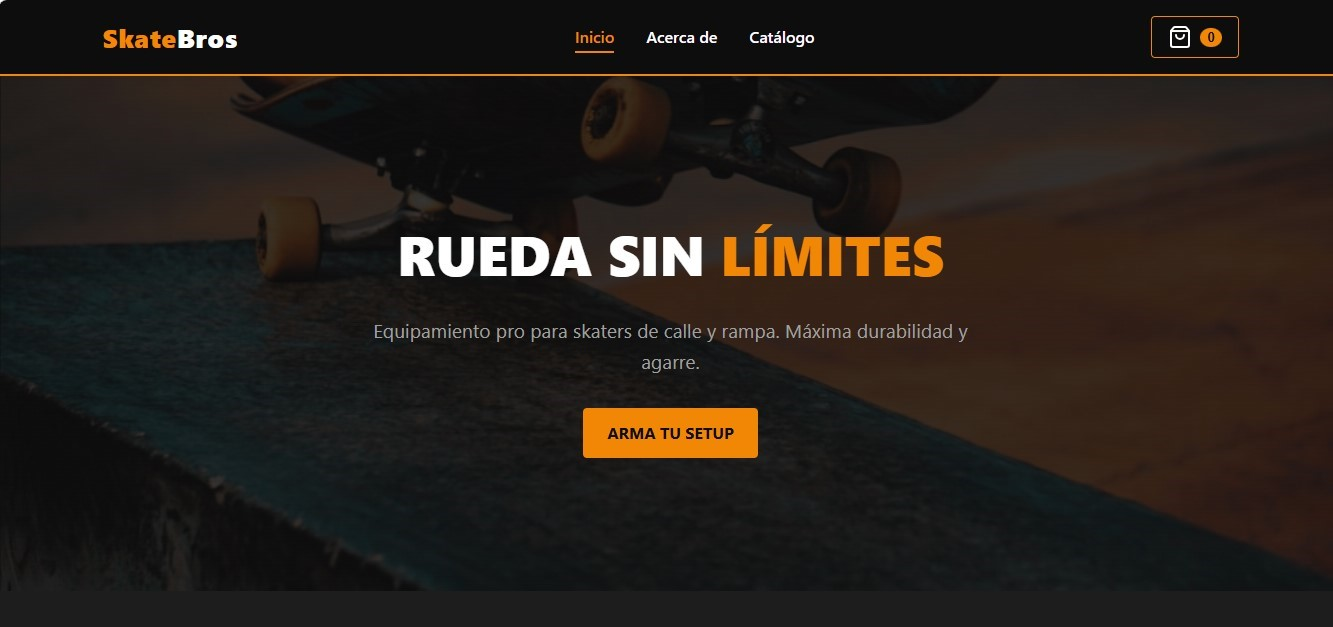
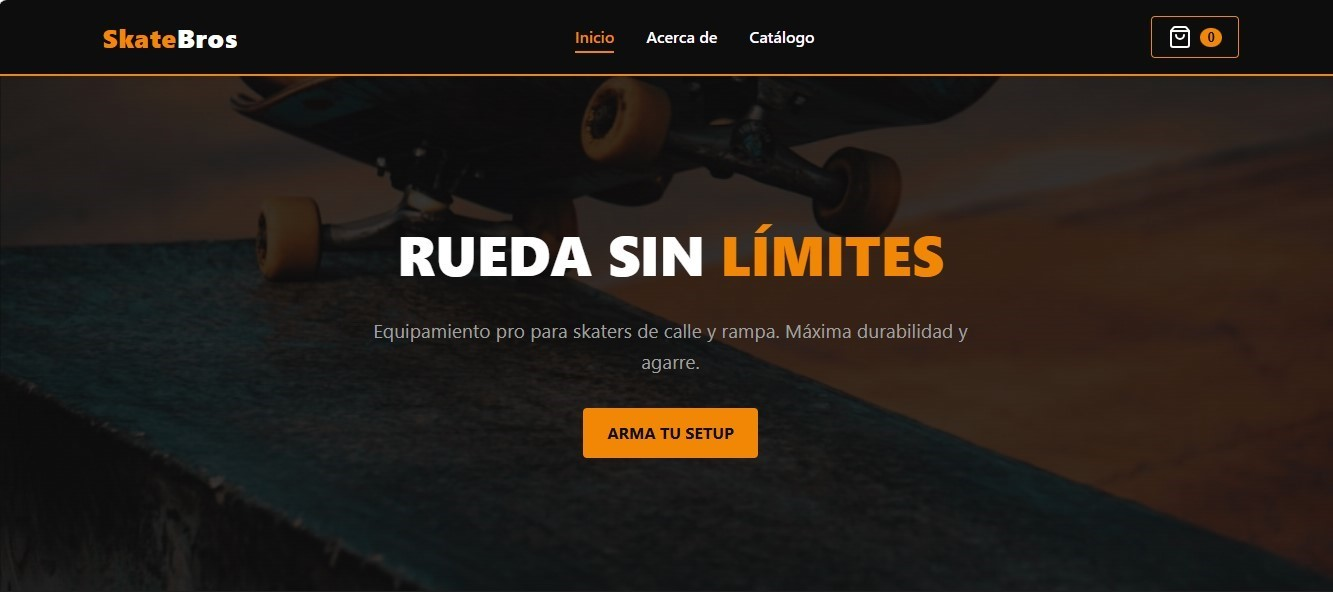
Ajustes en la responsividad

diff --git a/assets/css/style.css b/assets/css/style.css
@@ -31,7 +31,6 @@ body {
     line-height: 1.6;
 }
 
-/* FONDOS AMBIENTALES */
 .ambient-light-1, .ambient-light-2 {
     position: fixed;
     border-radius: 50%;
@@ -56,7 +55,6 @@ body {
     right: -100px;
 }
 
-/* NAVEGACIÓN CORREGIDA */
 .glass-nav {
     position: relative; 
     width: 90%;
@@ -98,7 +96,6 @@ body {
     color: var(--rose-gold);
 }
 
-/* CONTENEDOR PRINCIPAL */
 .main-wrapper {
     width: 100%;
     max-width: 1100px;
@@ -479,8 +476,14 @@ body {
         font-size: 2rem;
     }
 
-    .bio {
-        text-align: left;
+    .bio, 
+    .project-info p {
+        text-align: justify;
+        text-justify: inter-word;
+        hyphens: auto;
+        -webkit-hyphens: auto;
+        word-break: normal;
+        line-height: 1.6;
     }
 
     .hero-action-btns {
@@ -488,7 +491,15 @@ body {
     }
 
     .skills-pill-container {
+        flex-direction: column;
+        width: 100%;
+        gap: 10px;
+    }
+
+    .skill-pill {
+        width: 100%;
         justify-content: center;
+        text-align: center;
     }
 
     .section-title {
@@ -500,6 +511,10 @@ body {
     .main-wrapper {
         padding: 0 12px;
         margin: 20px auto;
+    }
+
+    .glass-card {
+        padding: 20px 16px;
     }
 
     .hero-text h1 {
@@ -522,5 +537,9 @@ body {
     .ambient-light-1, .ambient-light-2 {
         width: 200px;
         height: 200px;
+    }
+
+    .project-info {
+        padding: 16px;
     }
 }
